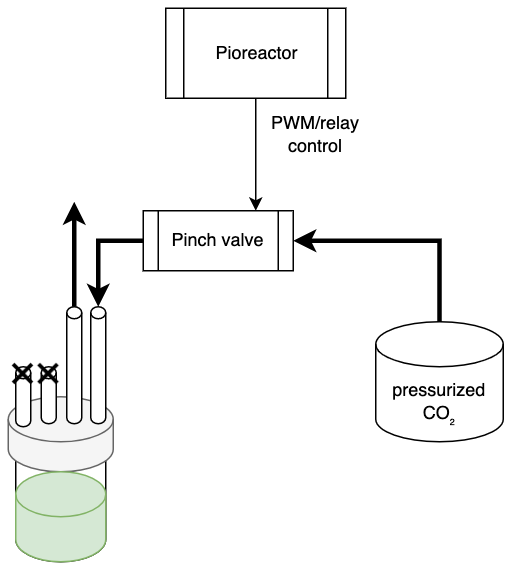
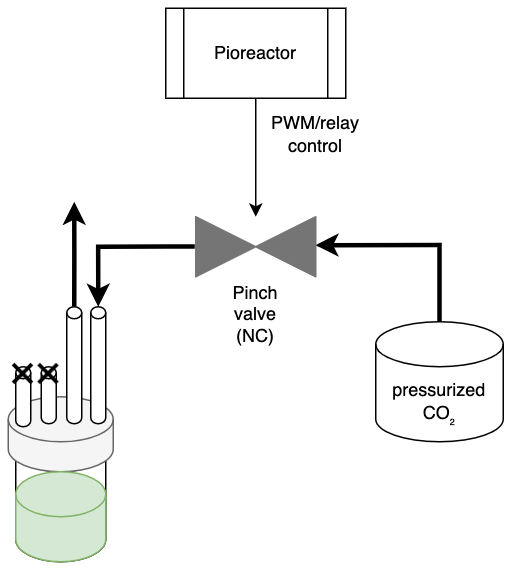
update pinch valve docs

Changed region(s): [[0.1875, 0.3281, 0.875, 0.507], [0.4375, 0.507, 0.5625, 0.6263], [0.4062, 0.0596, 0.5938, 0.1193]]

diff --git a/user-guide/30-Advanced/07-additional-hardware/02-pinch-valves.md b/user-guide/30-Advanced/07-additional-hardware/02-pinch-valves.md
@@ -19,7 +19,11 @@ Keeping a pinch valve powered continuously for a long time can reach temperature
 
 Some options for pinch valves that will be useful for your application:
 
-1. **Normally open / normally closed**. When no power is provided to the pinch valve, a **normally closed** pinch valve will force the tube to be closed. Conversely, a **normally open** pinch valve will keep the tube open when no power is provided. We suggest a normally closed most of the time, since if the Pioreactor loses power, or an experiment ends and power is turned off, we would like the tube to be closed to avoid losing gas.
+1. **Normally closed (NC) / normally open (NO)**. When no power is provided to the pinch valve, a **normally closed** pinch valve will force the tube to be closed. Conversely, a **normally open** pinch valve will keep the tube open when no power is provided.
+
+    :::tip
+    We suggest a **normally closed** valve most of the time, since if the Pioreactor loses power, or an experiment ends and power is turned off, we would like the tube to be closed to avoid losing gas.
+    :::
 
 2. **PWM**: safest option is "continuously" (or "continuous"). This means that we can power the pinch valve continuously without it overheating, however it still may be hot to touch.
 
